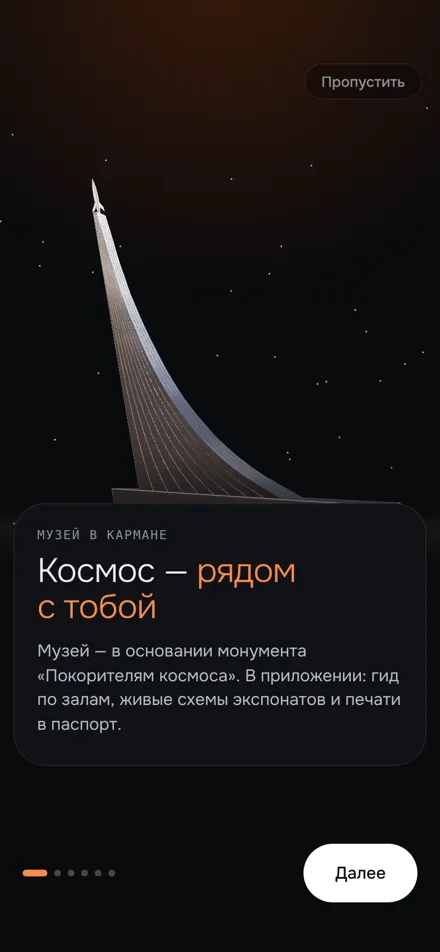
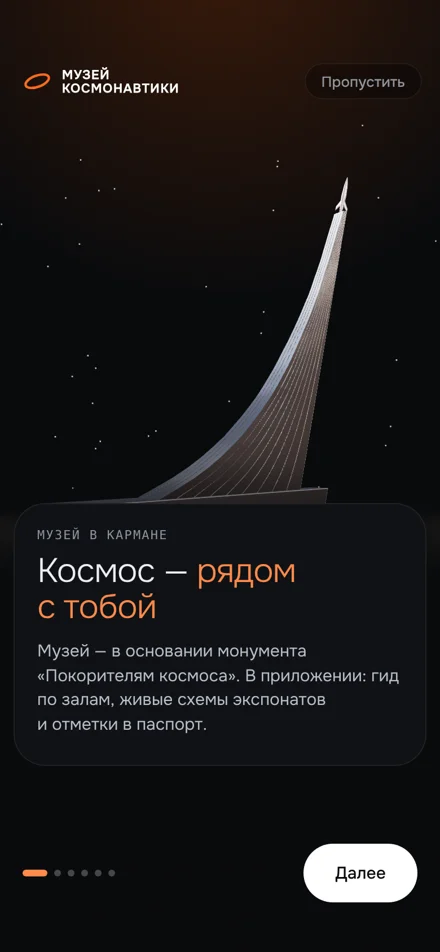
app v157: онбординг — логотип музея, стела смотрит вправо-вверх
Claude-Session: https://claude.ai/code/session_01YJBZo4ctwu5nXZDRpFLjgU

diff --git a/kosmo-museum/deck/app/index.html b/kosmo-museum/deck/app/index.html
@@ -1201,6 +1201,7 @@ window.M_EX = [
 #mvSeg{display:none!important}
 </style>
 <style>/* v153 */ #obDuo .obdog{opacity:0;transform:translateY(60px);transition:opacity .6s ease,transform .8s cubic-bezier(.22,1,.36,1)} #obDuo .obdog.up{opacity:1;transform:none}</style>
+<style>/* v157: онбординг — стела смотрит вправо-вверх, логотип музея */ .obmon canvas{transform:scaleX(-1)} .obv{position:relative} .oblogo{position:absolute;left:20px;top:-25px;display:flex;align-items:center;gap:9px;z-index:3;color:#fff;pointer-events:none} .oblogo svg{width:26px;height:26px} .oblogo b{font:700 11px/1.1 var(--f,Inter);letter-spacing:.08em}</style>
 </head>
 <body>
 <aside class="notes" id="notes"></aside>
@@ -1389,7 +1390,7 @@ window.M_EX = [
     <div class="ob off" id="ob">
       <button class="obskip" id="obSkip">Пропустить</button>
       <div class="obtrack" id="obTrack">
-        <section class="obs"><div class="obv"><div class="obmon" id="obMon"></div></div><div class="obt"><div class="kick">Музей в кармане</div><h2>Космос — <em>рядом с тобой</em></h2><p>Музей — в основании монумента «Покорителям космоса». В приложении: гид по залам, живые схемы экспонатов и отметки в паспорт.</p></div></section>
+        <section class="obs"><div class="obv"><div class="obmon" id="obMon"></div><div class="oblogo"><svg viewBox="0 0 24 24" fill="none" stroke="#FF6A1F" stroke-width="2"><ellipse cx="12" cy="12" rx="10" ry="4.6" transform="rotate(-20 12 12)"/></svg><b>МУЗЕЙ<br>КОСМОНАВТИКИ</b></div></div><div class="obt"><div class="kick">Музей в кармане</div><h2>Космос — <em>рядом с тобой</em></h2><p>Музей — в основании монумента «Покорителям космоса». В приложении: гид по залам, живые схемы экспонатов и отметки в паспорт.</p></div></section>
         <section class="obs"><div class="obv"><div class="obrt" id="obRt">
           <button data-r="short" class="on"><svg viewBox="0 0 120 40"><path d="M6 30 C30 8 46 34 64 18 S100 10 114 22" fill="none" stroke="currentColor" stroke-width="2" stroke-dasharray="1 6" stroke-linecap="round"/><circle cx="6" cy="30" r="4" fill="#fff"/><circle cx="114" cy="22" r="4" fill="currentColor"/></svg><div><b>Главное</b><span>10 экспонатов · 45 мин</span></div></button>
           <button data-r="kids"><svg viewBox="0 0 120 40"><path d="M6 24 C24 34 40 6 60 20 S98 34 114 14" fill="none" stroke="currentColor" stroke-width="2" stroke-dasharray="1 6" stroke-linecap="round"/><circle cx="6" cy="24" r="4" fill="#fff"/><circle cx="114" cy="14" r="4" fill="currentColor"/></svg><div><b>С детьми</b><span>8 экспонатов · 1 час</span></div></button>
